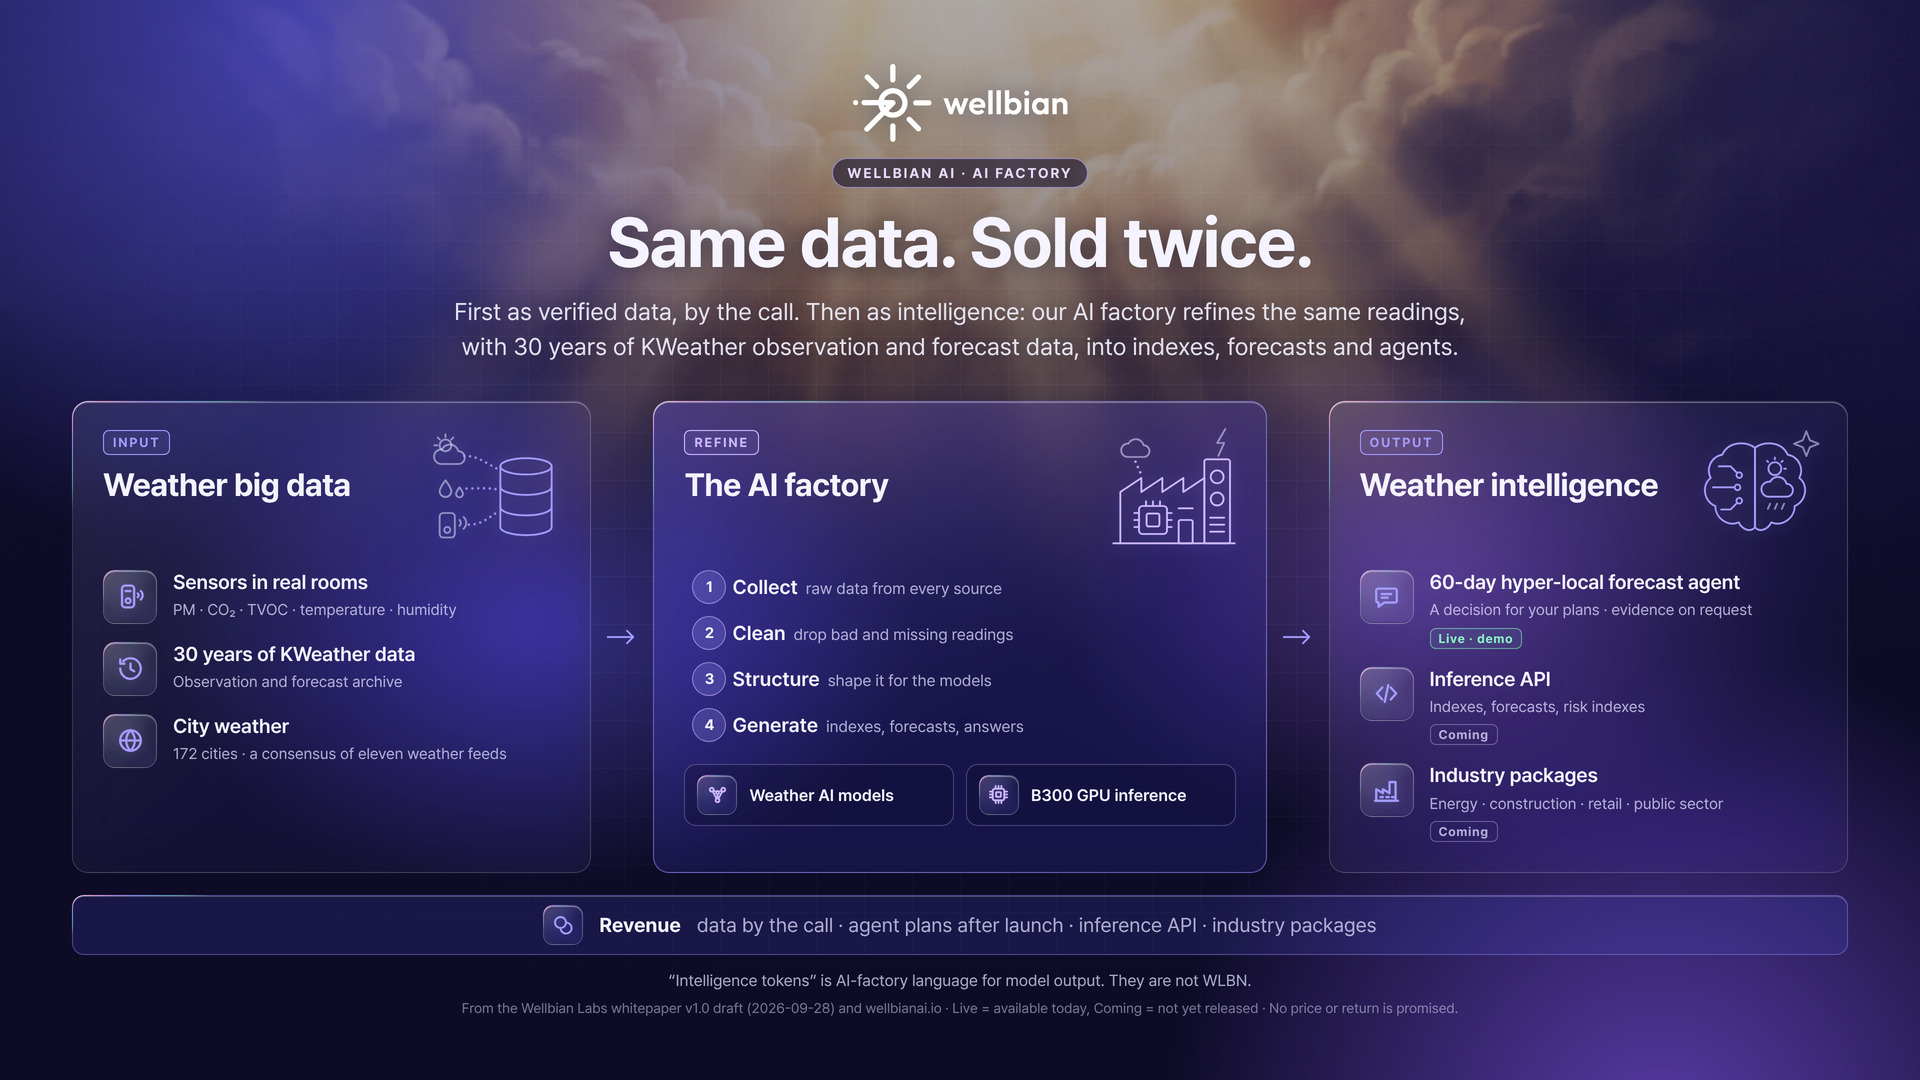
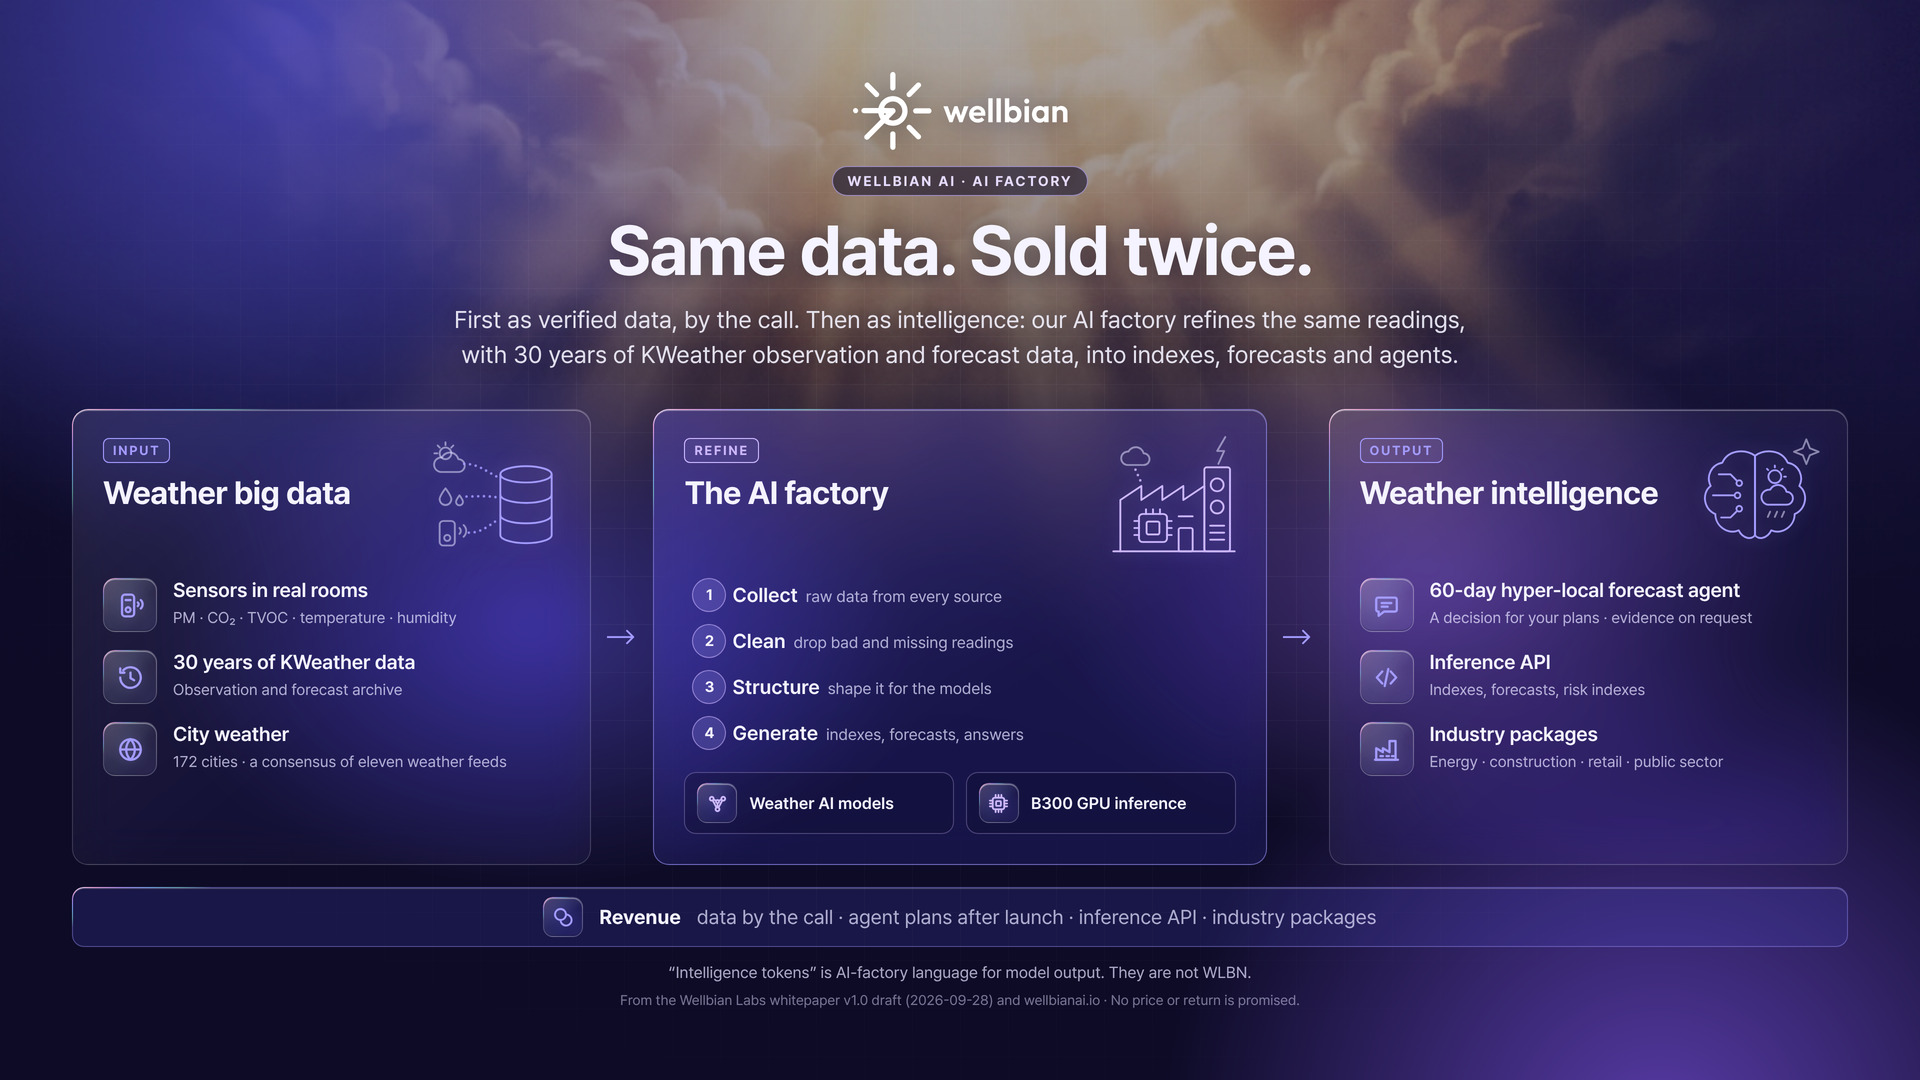
depin: drop the status chips from the part 3 output tile
Claude-Session: https://claude.ai/code/session_014drgzQYBXTLjd1zzmsjRaS

diff --git a/depin/content/ai-factory-1021/ai-factory-en-9x16.html b/depin/content/ai-factory-1021/ai-factory-en-9x16.html
@@ -167,9 +167,9 @@ h1{margin-top:14px;font-size:76px;line-height:1.04;text-align:center;letter-spac
 <div class="chev"><svg viewBox="0 0 24 24" aria-hidden="true"><path d="M0 12h21M16 7l5 5-5 5"/></svg></div>
 <section class="ft hub glass glint"><div class="ill"><svg viewBox="0 0 120 120" aria-hidden="true"><path d="M8 104h104"/><path d="M14 104V60l18-12v12l18-12v12l18-12v12l18-12v56"/><rect x="86" y="32" width="22" height="72" rx="2"/><circle cx="97" cy="47" r="5.5"/><circle cx="97" cy="66" r="5.5"/><path d="M91 82h12M91 88h12M91 94h12"/><rect x="30" y="72" width="24" height="24" rx="3"/><rect x="36.5" y="78.5" width="11" height="11" rx="1.5"/><path d="M36 68v4M42 68v4M48 68v4M26 78h4M26 84h4M26 90h4M54 78h4M54 84h4M54 90h4"/><rect x="64" y="84" width="12" height="20" rx="1.5"/><path d="M64 74h12"/><g class="l2"><path d="M20 30h14a5 5 0 0 0 0-10 7 7 0 0 0-13-1.5A5.5 5.5 0 0 0 20 30z"/><path d="M104 6l-7 12h6l-5 11"/></g><g class="dot"><path d="M27 34c2 5 4 8 5 12"/></g></svg></div><div class="hd"><div class="eyebrow">Refine</div><h2>The AI factory</h2></div><div class="proc"><div class="pr"><span class="k">1</span><div><b>Collect</b><span>raw data from every source</span></div></div><div class="pr"><span class="k">2</span><div><b>Clean</b><span>drop bad and missing readings</span></div></div><div class="pr"><span class="k">3</span><div><b>Structure</b><span>shape it for the models</span></div></div><div class="pr"><span class="k">4</span><div><b>Generate</b><span>indexes, forecasts, answers</span></div></div></div><div class="eng"><div><span class="ico-s"><svg viewBox="0 0 24 24" aria-hidden="true"><circle cx="6" cy="7" r="2"/><circle cx="18" cy="7" r="2"/><circle cx="12" cy="18" r="2"/><circle cx="12" cy="10" r="1.6"/><path d="M7.8 7.7l2.7 1.4M16.2 7.7l-2.7 1.4M12 11.6V16M7 8.8l4 7.5M17 8.8l-4 7.5"/></svg></span>Weather AI models</div><div><span class="ico-s"><svg viewBox="0 0 24 24" aria-hidden="true"><rect x="6" y="6" width="12" height="12" rx="2"/><rect x="9.5" y="9.5" width="5" height="5" rx="1"/><path d="M9 3v3M12 3v3M15 3v3M9 18v3M12 18v3M15 18v3M3 9h3M3 12h3M3 15h3M18 9h3M18 12h3M18 15h3"/></svg></span>B300 GPU inference</div></div></section>
 <div class="chev"><svg viewBox="0 0 24 24" aria-hidden="true"><path d="M0 12h21M16 7l5 5-5 5"/></svg></div>
-<section class="ft glass glint"><div class="ill"><svg viewBox="0 0 120 120" aria-hidden="true"><path d="M60 22c-9-6-23-5-28 6-10 2-14 12-10 20-8 6-6 20 4 24 0 10 10 18 20 14 4 8 12 8 14 4z"/><path d="M60 22c9-6 23-5 28 6 10 2 14 12 10 20 8 6 6 20-4 24 0 10-10 18-20 14-4 8-12 8-14 4z"/><path d="M60 22v68"/><path d="M29 38h10l5 5M24 56h18M31 75h8l5-5"/><circle cx="46.5" cy="45.5" r="2.4"/><circle cx="45" cy="56" r="2.4"/><circle cx="46.5" cy="67.5" r="2.4"/><circle cx="77" cy="40" r="5.5"/><path d="M77 30.5V32M86.5 40H85M70.3 33.3l1 1M83.7 33.3l-1 1"/><path d="M71 64h16a5.5 5.5 0 0 0 0-11 7.5 7.5 0 0 0-14-1.8A6 6 0 0 0 71 64z"/><g class="l2"><path d="M73 70l-2 4.5M79 70l-2 4.5M85 70l-2 4.5"/><path d="M104 8l3 7.6 7.6 3-7.6 3-3 7.6-3-7.6-7.6-3 7.6-3z"/></g></svg></div><div class="hd"><div class="eyebrow">Output</div><h2>Weather intelligence</h2></div><div class="items"><div class="it"><span class="ico"><svg viewBox="0 0 24 24" aria-hidden="true"><path d="M5 5.5h14a1.5 1.5 0 0 1 1.5 1.5v8.5a1.5 1.5 0 0 1-1.5 1.5H10l-4.5 3.5V17H5a1.5 1.5 0 0 1-1.5-1.5V7A1.5 1.5 0 0 1 5 5.5z"/><path d="M8 10h8M8 13h5"/></svg></span><div><div class="vrow"><b>60-day hyper-local forecast agent</b><span class="st live">Live · demo</span></div><span class="d"><span class="nw">A decision for your plans ·</span> <span class="nw">evidence on request</span></span></div></div><div class="it"><span class="ico"><svg viewBox="0 0 24 24" aria-hidden="true"><path d="M8.5 7L4 12l4.5 5"/><path d="M15.5 7L20 12l-4.5 5"/><path d="M13.5 5l-3 14"/></svg></span><div><div class="vrow"><b>Inference API</b><span class="st soon">Coming</span></div><span class="d">Indexes, forecasts, risk indexes</span></div></div><div class="it"><span class="ico"><svg viewBox="0 0 24 24" aria-hidden="true"><path d="M3.5 20.5V11l5.5 3.2V11l5.5 3.2V5h5v15.5z"/><path d="M2.5 20.5h19"/><path d="M7 17.5h2M12 17.5h2M16.5 17.5h1.5"/></svg></span><div><div class="vrow"><b>Industry packages</b><span class="st soon">Coming</span></div><span class="d"><span class="nw">Energy ·</span> <span class="nw">construction ·</span> <span class="nw">retail ·</span> <span class="nw">public sector</span></span></div></div></div></section>
+<section class="ft glass glint"><div class="ill"><svg viewBox="0 0 120 120" aria-hidden="true"><path d="M60 22c-9-6-23-5-28 6-10 2-14 12-10 20-8 6-6 20 4 24 0 10 10 18 20 14 4 8 12 8 14 4z"/><path d="M60 22c9-6 23-5 28 6 10 2 14 12 10 20 8 6 6 20-4 24 0 10-10 18-20 14-4 8-12 8-14 4z"/><path d="M60 22v68"/><path d="M29 38h10l5 5M24 56h18M31 75h8l5-5"/><circle cx="46.5" cy="45.5" r="2.4"/><circle cx="45" cy="56" r="2.4"/><circle cx="46.5" cy="67.5" r="2.4"/><circle cx="77" cy="40" r="5.5"/><path d="M77 30.5V32M86.5 40H85M70.3 33.3l1 1M83.7 33.3l-1 1"/><path d="M71 64h16a5.5 5.5 0 0 0 0-11 7.5 7.5 0 0 0-14-1.8A6 6 0 0 0 71 64z"/><g class="l2"><path d="M73 70l-2 4.5M79 70l-2 4.5M85 70l-2 4.5"/><path d="M104 8l3 7.6 7.6 3-7.6 3-3 7.6-3-7.6-7.6-3 7.6-3z"/></g></svg></div><div class="hd"><div class="eyebrow">Output</div><h2>Weather intelligence</h2></div><div class="items"><div class="it"><span class="ico"><svg viewBox="0 0 24 24" aria-hidden="true"><path d="M5 5.5h14a1.5 1.5 0 0 1 1.5 1.5v8.5a1.5 1.5 0 0 1-1.5 1.5H10l-4.5 3.5V17H5a1.5 1.5 0 0 1-1.5-1.5V7A1.5 1.5 0 0 1 5 5.5z"/><path d="M8 10h8M8 13h5"/></svg></span><div><b>60-day hyper-local forecast agent</b><span class="d"><span class="nw">A decision for your plans ·</span> <span class="nw">evidence on request</span></span></div></div><div class="it"><span class="ico"><svg viewBox="0 0 24 24" aria-hidden="true"><path d="M8.5 7L4 12l4.5 5"/><path d="M15.5 7L20 12l-4.5 5"/><path d="M13.5 5l-3 14"/></svg></span><div><b>Inference API</b><span class="d">Indexes, forecasts, risk indexes</span></div></div><div class="it"><span class="ico"><svg viewBox="0 0 24 24" aria-hidden="true"><path d="M3.5 20.5V11l5.5 3.2V11l5.5 3.2V5h5v15.5z"/><path d="M2.5 20.5h19"/><path d="M7 17.5h2M12 17.5h2M16.5 17.5h1.5"/></svg></span><div><b>Industry packages</b><span class="d"><span class="nw">Energy ·</span> <span class="nw">construction ·</span> <span class="nw">retail ·</span> <span class="nw">public sector</span></span></div></div></div></section>
 </div>
 <div class="ops band glint"><span class="ico-s"><svg viewBox="0 0 24 24" aria-hidden="true"><circle cx="9.5" cy="9.5" r="5.5"/><path d="M15.4 9.6a5.5 5.5 0 1 1-5.8 5.8"/></svg></span><b>Revenue</b><span>data by the call · agent plans after launch · inference API · industry packages</span></div>
 <p class="note">“Intelligence tokens” is AI-factory language for model output. They are not WLBN.</p>
-<p class="foot">From the Wellbian Labs whitepaper v1.0 draft (2026-09-28) and wellbianai.io · Live = available today, Coming = not yet released · No price or return is promised.</p>
+<p class="foot">From the Wellbian Labs whitepaper v1.0 draft (2026-09-28) and wellbianai.io · No price or return is promised.</p>
 </div></body></html>

diff --git a/depin/content/ai-factory-1021/ai-factory-en.html b/depin/content/ai-factory-1021/ai-factory-en.html
@@ -120,9 +120,9 @@ h1{margin-top:18px;font-size:70px;font-weight:700;letter-spacing:-.025em;line-he
 <div class="chev"><svg viewBox="0 0 24 24" aria-hidden="true"><path d="M0 12h21M16 7l5 5-5 5"/></svg></div>
 <section class="ft hub glass glint"><div class="ill"><svg viewBox="0 0 120 120" aria-hidden="true"><path d="M8 104h104"/><path d="M14 104V60l18-12v12l18-12v12l18-12v12l18-12v56"/><rect x="86" y="32" width="22" height="72" rx="2"/><circle cx="97" cy="47" r="5.5"/><circle cx="97" cy="66" r="5.5"/><path d="M91 82h12M91 88h12M91 94h12"/><rect x="30" y="72" width="24" height="24" rx="3"/><rect x="36.5" y="78.5" width="11" height="11" rx="1.5"/><path d="M36 68v4M42 68v4M48 68v4M26 78h4M26 84h4M26 90h4M54 78h4M54 84h4M54 90h4"/><rect x="64" y="84" width="12" height="20" rx="1.5"/><path d="M64 74h12"/><g class="l2"><path d="M20 30h14a5 5 0 0 0 0-10 7 7 0 0 0-13-1.5A5.5 5.5 0 0 0 20 30z"/><path d="M104 6l-7 12h6l-5 11"/></g><g class="dot"><path d="M27 34c2 5 4 8 5 12"/></g></svg></div><div class="hd"><div class="eyebrow">Refine</div><h2>The AI factory</h2></div><div class="proc"><div class="pr"><span class="k">1</span><div><b>Collect</b><span>raw data from every source</span></div></div><div class="pr"><span class="k">2</span><div><b>Clean</b><span>drop bad and missing readings</span></div></div><div class="pr"><span class="k">3</span><div><b>Structure</b><span>shape it for the models</span></div></div><div class="pr"><span class="k">4</span><div><b>Generate</b><span>indexes, forecasts, answers</span></div></div></div><div class="eng"><div><span class="ico-s"><svg viewBox="0 0 24 24" aria-hidden="true"><circle cx="6" cy="7" r="2"/><circle cx="18" cy="7" r="2"/><circle cx="12" cy="18" r="2"/><circle cx="12" cy="10" r="1.6"/><path d="M7.8 7.7l2.7 1.4M16.2 7.7l-2.7 1.4M12 11.6V16M7 8.8l4 7.5M17 8.8l-4 7.5"/></svg></span>Weather AI models</div><div><span class="ico-s"><svg viewBox="0 0 24 24" aria-hidden="true"><rect x="6" y="6" width="12" height="12" rx="2"/><rect x="9.5" y="9.5" width="5" height="5" rx="1"/><path d="M9 3v3M12 3v3M15 3v3M9 18v3M12 18v3M15 18v3M3 9h3M3 12h3M3 15h3M18 9h3M18 12h3M18 15h3"/></svg></span>B300 GPU inference</div></div></section>
 <div class="chev"><svg viewBox="0 0 24 24" aria-hidden="true"><path d="M0 12h21M16 7l5 5-5 5"/></svg></div>
-<section class="ft glass glint"><div class="ill"><svg viewBox="0 0 120 120" aria-hidden="true"><path d="M60 22c-9-6-23-5-28 6-10 2-14 12-10 20-8 6-6 20 4 24 0 10 10 18 20 14 4 8 12 8 14 4z"/><path d="M60 22c9-6 23-5 28 6 10 2 14 12 10 20 8 6 6 20-4 24 0 10-10 18-20 14-4 8-12 8-14 4z"/><path d="M60 22v68"/><path d="M29 38h10l5 5M24 56h18M31 75h8l5-5"/><circle cx="46.5" cy="45.5" r="2.4"/><circle cx="45" cy="56" r="2.4"/><circle cx="46.5" cy="67.5" r="2.4"/><circle cx="77" cy="40" r="5.5"/><path d="M77 30.5V32M86.5 40H85M70.3 33.3l1 1M83.7 33.3l-1 1"/><path d="M71 64h16a5.5 5.5 0 0 0 0-11 7.5 7.5 0 0 0-14-1.8A6 6 0 0 0 71 64z"/><g class="l2"><path d="M73 70l-2 4.5M79 70l-2 4.5M85 70l-2 4.5"/><path d="M104 8l3 7.6 7.6 3-7.6 3-3 7.6-3-7.6-7.6-3 7.6-3z"/></g></svg></div><div class="hd"><div class="eyebrow">Output</div><h2>Weather intelligence</h2></div><div class="items"><div class="it"><span class="ico"><svg viewBox="0 0 24 24" aria-hidden="true"><path d="M5 5.5h14a1.5 1.5 0 0 1 1.5 1.5v8.5a1.5 1.5 0 0 1-1.5 1.5H10l-4.5 3.5V17H5a1.5 1.5 0 0 1-1.5-1.5V7A1.5 1.5 0 0 1 5 5.5z"/><path d="M8 10h8M8 13h5"/></svg></span><div><b>60-day hyper-local forecast agent</b><span class="d"><span class="nw">A decision for your plans ·</span> <span class="nw">evidence on request</span></span><span class="st live">Live · demo</span></div></div><div class="it"><span class="ico"><svg viewBox="0 0 24 24" aria-hidden="true"><path d="M8.5 7L4 12l4.5 5"/><path d="M15.5 7L20 12l-4.5 5"/><path d="M13.5 5l-3 14"/></svg></span><div><b>Inference API</b><span class="d">Indexes, forecasts, risk indexes</span><span class="st soon">Coming</span></div></div><div class="it"><span class="ico"><svg viewBox="0 0 24 24" aria-hidden="true"><path d="M3.5 20.5V11l5.5 3.2V11l5.5 3.2V5h5v15.5z"/><path d="M2.5 20.5h19"/><path d="M7 17.5h2M12 17.5h2M16.5 17.5h1.5"/></svg></span><div><b>Industry packages</b><span class="d"><span class="nw">Energy ·</span> <span class="nw">construction ·</span> <span class="nw">retail ·</span> <span class="nw">public sector</span></span><span class="st soon">Coming</span></div></div></div></section>
+<section class="ft glass glint"><div class="ill"><svg viewBox="0 0 120 120" aria-hidden="true"><path d="M60 22c-9-6-23-5-28 6-10 2-14 12-10 20-8 6-6 20 4 24 0 10 10 18 20 14 4 8 12 8 14 4z"/><path d="M60 22c9-6 23-5 28 6 10 2 14 12 10 20 8 6 6 20-4 24 0 10-10 18-20 14-4 8-12 8-14 4z"/><path d="M60 22v68"/><path d="M29 38h10l5 5M24 56h18M31 75h8l5-5"/><circle cx="46.5" cy="45.5" r="2.4"/><circle cx="45" cy="56" r="2.4"/><circle cx="46.5" cy="67.5" r="2.4"/><circle cx="77" cy="40" r="5.5"/><path d="M77 30.5V32M86.5 40H85M70.3 33.3l1 1M83.7 33.3l-1 1"/><path d="M71 64h16a5.5 5.5 0 0 0 0-11 7.5 7.5 0 0 0-14-1.8A6 6 0 0 0 71 64z"/><g class="l2"><path d="M73 70l-2 4.5M79 70l-2 4.5M85 70l-2 4.5"/><path d="M104 8l3 7.6 7.6 3-7.6 3-3 7.6-3-7.6-7.6-3 7.6-3z"/></g></svg></div><div class="hd"><div class="eyebrow">Output</div><h2>Weather intelligence</h2></div><div class="items"><div class="it"><span class="ico"><svg viewBox="0 0 24 24" aria-hidden="true"><path d="M5 5.5h14a1.5 1.5 0 0 1 1.5 1.5v8.5a1.5 1.5 0 0 1-1.5 1.5H10l-4.5 3.5V17H5a1.5 1.5 0 0 1-1.5-1.5V7A1.5 1.5 0 0 1 5 5.5z"/><path d="M8 10h8M8 13h5"/></svg></span><div><b>60-day hyper-local forecast agent</b><span class="d"><span class="nw">A decision for your plans ·</span> <span class="nw">evidence on request</span></span></div></div><div class="it"><span class="ico"><svg viewBox="0 0 24 24" aria-hidden="true"><path d="M8.5 7L4 12l4.5 5"/><path d="M15.5 7L20 12l-4.5 5"/><path d="M13.5 5l-3 14"/></svg></span><div><b>Inference API</b><span class="d">Indexes, forecasts, risk indexes</span></div></div><div class="it"><span class="ico"><svg viewBox="0 0 24 24" aria-hidden="true"><path d="M3.5 20.5V11l5.5 3.2V11l5.5 3.2V5h5v15.5z"/><path d="M2.5 20.5h19"/><path d="M7 17.5h2M12 17.5h2M16.5 17.5h1.5"/></svg></span><div><b>Industry packages</b><span class="d"><span class="nw">Energy ·</span> <span class="nw">construction ·</span> <span class="nw">retail ·</span> <span class="nw">public sector</span></span></div></div></div></section>
 </div>
 <div class="ops band glint"><span class="ico-s"><svg viewBox="0 0 24 24" aria-hidden="true"><circle cx="9.5" cy="9.5" r="5.5"/><path d="M15.4 9.6a5.5 5.5 0 1 1-5.8 5.8"/></svg></span><b>Revenue</b><span>data by the call · agent plans after launch · inference API · industry packages</span></div>
 <p class="note">“Intelligence tokens” is AI-factory language for model output. They are not WLBN.</p>
-<p class="foot">From the Wellbian Labs whitepaper v1.0 draft (2026-09-28) and wellbianai.io · Live = available today, Coming = not yet released · No price or return is promised.</p>
+<p class="foot">From the Wellbian Labs whitepaper v1.0 draft (2026-09-28) and wellbianai.io · No price or return is promised.</p>
 </div></body></html>

diff --git a/depin/content/ai-factory-1021/build.py b/depin/content/ai-factory-1021/build.py
@@ -43,7 +43,7 @@ T = {
     ("factory", "Industry packages", "Energy · construction · retail · public sector", ("soon", "Coming"))]),
   band=("Revenue", "data by the call · agent plans after launch · inference API · industry packages"),
   note="“Intelligence tokens” is AI-factory language for model output. They are not WLBN.",
-  foot="From the Wellbian Labs whitepaper v1.0 draft (2026-09-28) and wellbianai.io · Live = available today, Coming = not yet released · No price or return is promised.",
+  foot="From the Wellbian Labs whitepaper v1.0 draft (2026-09-28) and wellbianai.io · No price or return is promised.",
  ),
 }
 
@@ -192,9 +192,9 @@ def page(lang, vertical=False):
     engs = "".join(f'<div>{A.ico(i, "ico-s")}{b}</div>' for i, b in eng)
     oe, oh, outs = t["out"]
     if vertical:
-        out = "".join(f'<div class="it">{A.ico(i)}<div><div class="vrow"><b>{b}</b><span class="st {s}">{sl}</span></div><span class="d">{A.nw(d)}</span></div></div>' for i, b, d, (s, sl) in outs)
+        out = "".join(f'<div class="it">{A.ico(i)}<div><b>{b}</b><span class="d">{A.nw(d)}</span></div></div>' for i, b, d, _ in outs)
     else:
-        out = "".join(f'<div class="it">{A.ico(i)}<div><b>{b}</b><span class="d">{A.nw(d)}</span><span class="st {s}">{sl}</span></div></div>' for i, b, d, (s, sl) in outs)
+        out = "".join(f'<div class="it">{A.ico(i)}<div><b>{b}</b><span class="d">{A.nw(d)}</span></div></div>' for i, b, d, _ in outs)  # 상태 칩(Live · Coming)은 10/22 서우 지시로 뺐다 — 상태는 게시 문안에
     bn, bd = t["band"]
     css = A.CSS + XCSS + (VCSS if vertical else "")
     return f"""<!doctype html><html lang="{t['lang']}"><head><meta charset="utf-8"><title>wellbian — {t['h1']}</title><style>{css}</style></head><body>

diff --git a/depin/reports/work-log.md b/depin/reports/work-log.md
@@ -2522,3 +2522,4 @@ Thanks Odelia — writing to you at that address today. Mine is support@wellbian
 - **연재 Part 3 6차(10/22, 서우 「인위적 조명 말고 황금빛 · 창문 햇살처럼」)** — 방사형 빛줄기 → 위 왼쪽에서 비스듬히 내려오는 평행 금빛 띠 넷(창살 간격) · 흐림 · 아래로 옅게. `content/ai-factory-1021/`.
 - **연재 Part 3 7차(10/22, 서우 「마니에리스모 화풍처럼 위에서 내려오는 풍부하고 자연스러운 햇살」)** — CSS 빛 대신 Higgsfield 회화풍 하늘 배경(구름 사이 금빛, 16:9 · 9:16, 약 6크레딧) · 아래는 남보라로 덮음 · 칩 · 부제 가독성 보정. `content/ai-factory-1021/`.
 - **연재 Part 3 8차(10/22, 서우 「효과 20% 약하게」)** — 회화풍 빛 배경 불투명도 .82 → .66. `content/ai-factory-1021/`.
+- **연재 Part 3 9차(10/22, 서우 「Live · Coming 칩 제거」)** — 상태 칩 셋 · 출처 줄 상태 설명 삭제. 상태 구분은 게시 문안(「Coming next」)에만 남김. `content/ai-factory-1021/`.

diff --git a/depin/content/ai-factory-1021/README.md b/depin/content/ai-factory-1021/README.md
@@ -20,6 +20,8 @@
 
 - **10/22 8차(서우 「질감 좋은데 효과 20% 정도만 약화」)**: 회화풍 배경 불투명도 .82 → .66.
 
+- **10/22 9차(서우 「LIVE DEMO 나 COMING 칩은 제거」)**: 출력 타일 상태 칩 셋과 출처 줄의 「Live = … Coming = …」 설명을 뺐다. 그림에서 상태 구분은 사라졌으므로 **상태(에이전트만 지금 · 나머지는 다음)는 게시 문안이 맡는다** — 링크드인 「Coming next」 · X 답글 1 「coming」 은 그대로 둔다.
+
 ## 백서 대조 (Company whitepaper v1.0 초안 2026-09-28 · wellbianai.io, 10/21 열람)
 
 | 원글 · 그림 | 백서 · 사이트 | 3편에서 |
